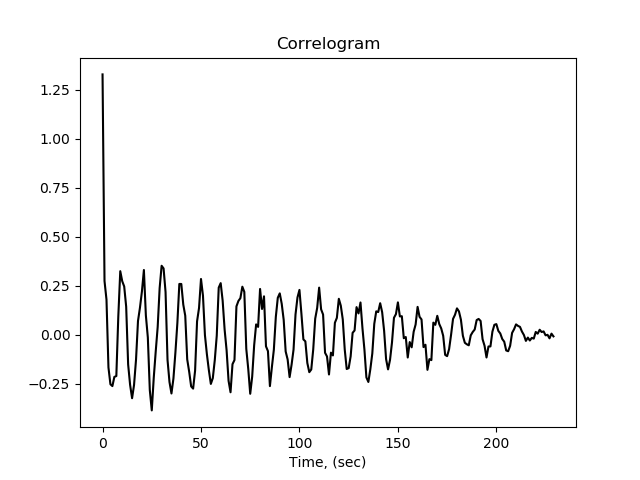
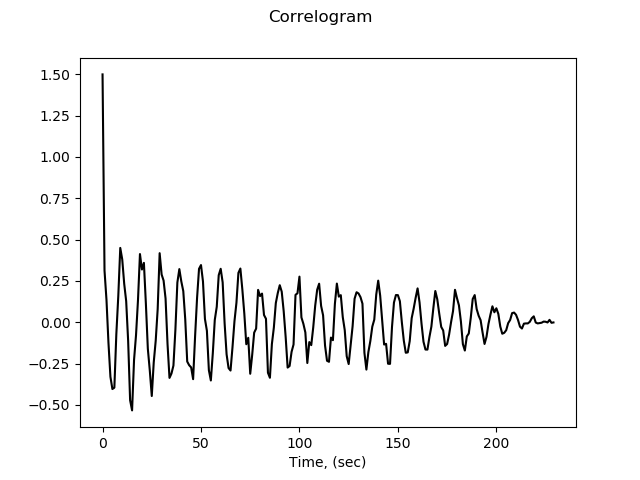
fix titles pos

diff --git a/main.py b/main.py
@@ -57,7 +57,7 @@ def main():
 ### plotting the time series
 
     plot_raw_series = graph.figure()
-    graph.title('Time series (raw)', fontsize=12)
+    graph.suptitle('Time series (raw)', fontsize=12)
 
     graph.xlabel('Time, (sec)')
 
@@ -88,7 +88,7 @@ def main():
 ### plotting the centred series
 
     plot_centred_series = graph.figure()
-    graph.title('Time series (centred)', fontsize=12)
+    graph.suptitle('Time series (centred)', fontsize=12)
 
     graph.xlabel('Time, (sec)')
 
@@ -129,7 +129,7 @@ def main():
 ### plotting the periodogram and detection treshold
 
     plot_periodogram = graph.figure()
-    graph.title('Periodogram', fontsize=12)
+    graph.suptitle('Periodogram', fontsize=12)
 
     graph.xlabel('Frequency, (Hz)')
 
@@ -162,7 +162,7 @@ def main():
 ### plotting the correlogram
     
     plot_correlogram = graph.figure()
-    graph.title('Correlogram', fontsize=12)
+    graph.suptitle('Correlogram', fontsize=12)
 
     graph.xlabel('Time, (sec)')
 
